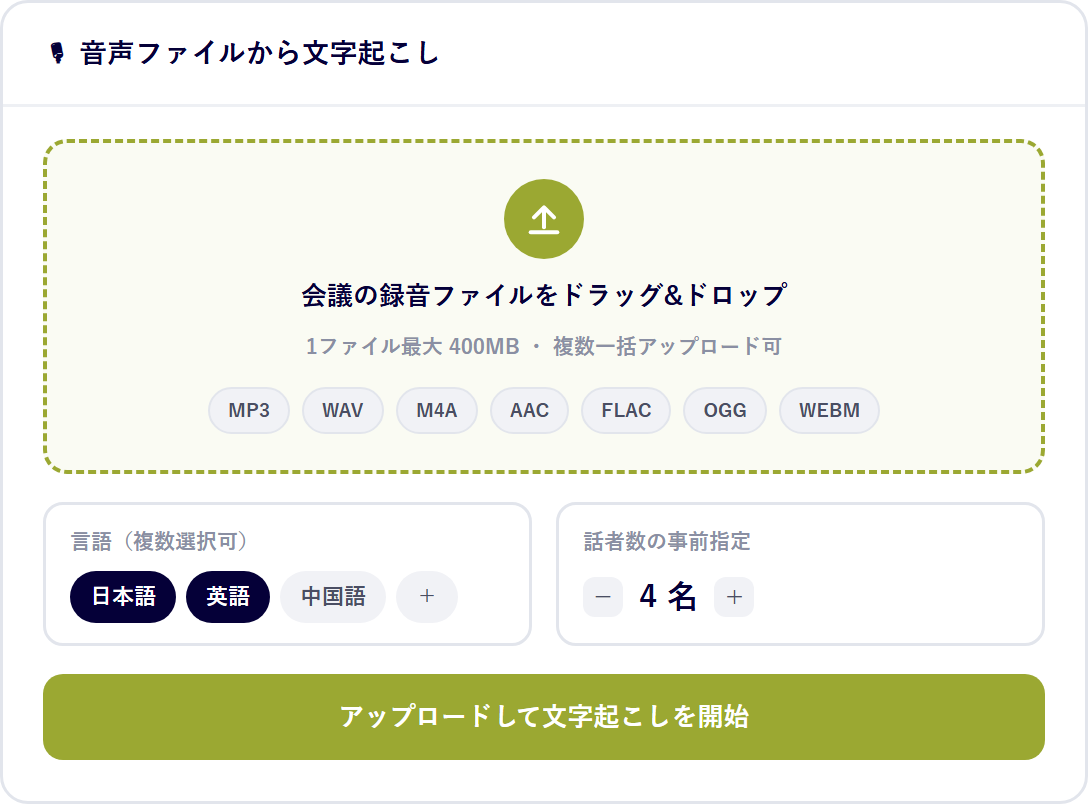
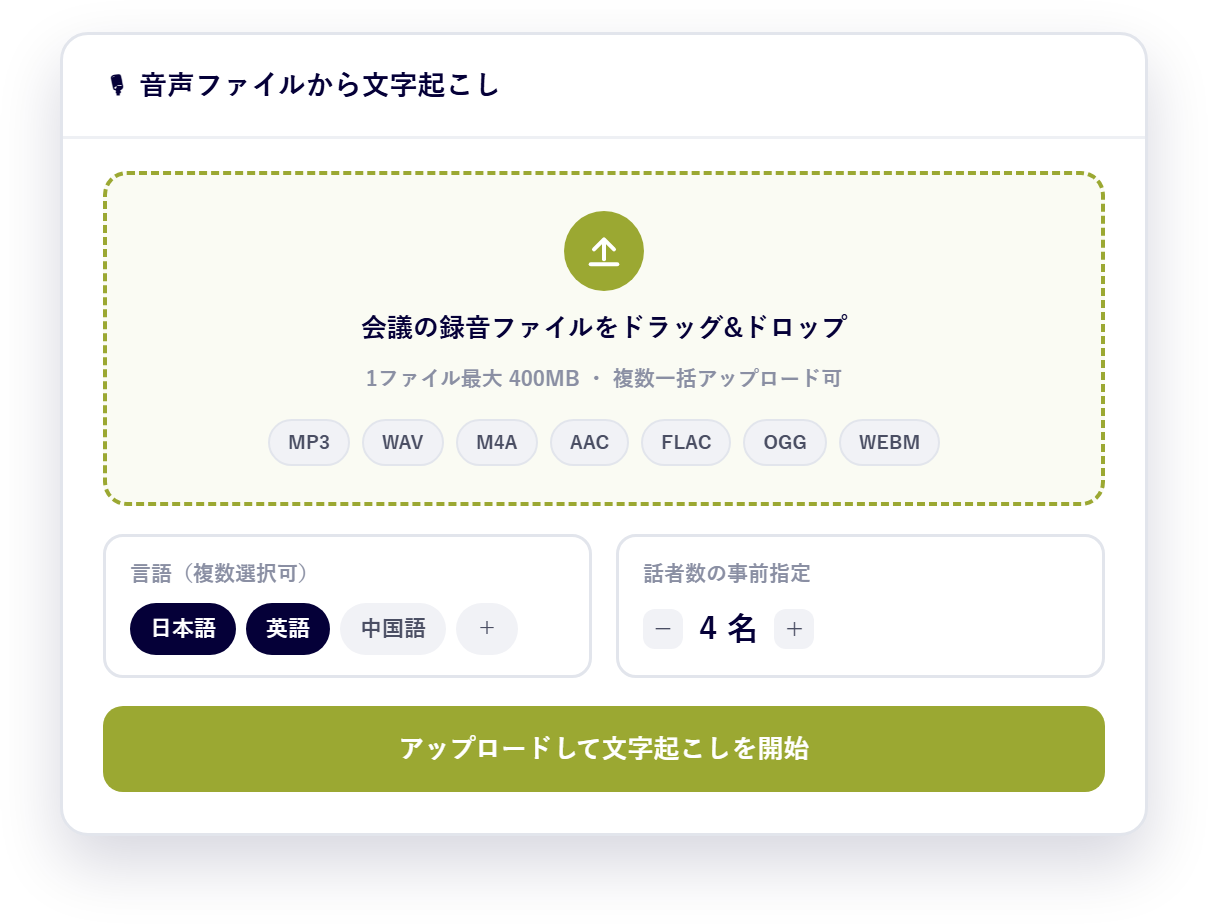
fix: hero CTA alignment and secondary button contrast; bake mockup shadow; section rhythm
- Secondary hero button was white-on-white (dark-hero override); now
  white bg with navy text/border, both buttons vertically centered
- Bake card shadow into transparent PNG, drop CSS filter whose layer
  edge showed as a visible seam
- Features section to white bg, re-alternate following sections
  (compare gray / flow white / use-cases gray / FAQ white)
- Remove LOCAL LLM/TRANSCRIPTION/TEMPLATE/MULTILINGUAL eyebrow tags
- Align new card heading sizes to 1.0625rem page standard

diff --git a/ai-minutes.html b/ai-minutes.html
@@ -1394,7 +1394,7 @@
             border: 1px solid var(--border);
         }
         .compare-card h3 {
-            font-size: 1.05rem;
+            font-size: 1.0625rem;
             font-weight: 800;
             margin-bottom: 1rem;
             padding-bottom: 0.75rem;
@@ -1516,7 +1516,18 @@
         .hero-feature .hero-points { justify-content: center; }
         .hero-feature .hero-points li { color: rgba(5, 0, 56, 0.75); }
         .hero-feature .hero-points li::before { background: #9BA832; }
-        .hero-feature .btn-secondary { background: white; }
+        .hero-feature .hero-cta { align-items: center; }
+        .hero-feature .hero-cta .btn {
+            display: inline-flex;
+            align-items: center;
+            justify-content: center;
+            line-height: 1.4;
+        }
+        .hero-feature .btn-secondary {
+            background: white;
+            color: var(--primary);
+            border-color: var(--primary);
+        }
         .hero-feature .btn-secondary:hover { background: var(--bg-cream); }
         .hero-deco {
             position: absolute;
@@ -1534,7 +1545,6 @@
         .hero-mockup-wrap { max-width: 880px; margin: 3.5rem auto 0; }
         .hero-mockup img {
             width: 100%; height: auto; display: block;
-            filter: drop-shadow(0 24px 40px rgba(5, 0, 56, 0.16));
         }
 
         .ps-row {
@@ -1555,8 +1565,7 @@
             color: var(--text-gray);
             margin-bottom: 0.5rem;
         }
-        .ps-pain-card h3 {
-            font-size: 1.02rem;
+        XX            font-size: 1.0625rem;
             font-weight: 800;
             line-height: 1.5;
             color: var(--text-dark);
@@ -1784,7 +1793,7 @@
             </ul>
             <div class="hero-mockup-wrap">
                 <div class="hero-mockup">
-                    <img src="images/hero-minutes-upload.png" alt="会議の録音ファイルをドラッグ&ドロップし、言語と話者数を選んで文字起こしを開始する画面イメージ" width="1088" height="804" loading="eager" decoding="async" fetchpriority="high">
+                    <img src="images/hero-minutes-upload.png" alt="会議の録音ファイルをドラッグ&ドロップし、言語と話者数を選んで文字起こしを開始する画面イメージ" width="1208" height="924" loading="eager" decoding="async" fetchpriority="high">
                 </div>
             </div>
         </div>
@@ -1886,7 +1895,7 @@
 </section>
 
 <!-- 4 Differentiators -->
-<section class="section section-gray" id="features">
+<section class="section" id="features">
     <div class="container">
         <span class="section-eyebrow">FEATURES</span>
         <h2 class="section-title">GBase On-Premises のAI議事録、4つの特長</h2>
@@ -1900,7 +1909,6 @@
                 <img src="images/feature-minutes-local-llm.jpg" alt="議事録の要約を自社環境のローカルLLMで実行し、会議データを外部クラウドに送信しない構成イメージ" width="1200" height="900" loading="lazy" decoding="async">
             </div>
             <div class="feature-content">
-                <span class="feature-label">LOCAL LLM</span>
                 <h3>要約はローカルLLM。<br>会議データを外部に出さない</h3>
                 <p>議事録の要約は、外部クラウドではなく自社・組織内環境で動作するLLMが実行します。個人情報や意思決定前の機微な情報を含む会議も、外部に送信せずにAIで処理できます。閉域環境でのAI活用については、<a href="https://onprem.gbase.ai/blog/on-premise-security/" class="inline-link">オンプレミスAIのセキュリティ解説</a>もご参照ください。</p>
                 <ul class="feature-list">
@@ -1917,7 +1925,6 @@
                 <img src="images/feature-minutes-upload.jpg" alt="会議の録音ファイルをドラッグ&ドロップし、言語と話者数を選んで文字起こしを開始する画面イメージ" width="1200" height="900" loading="lazy" decoding="async">
             </div>
             <div class="feature-content">
-                <span class="feature-label">TRANSCRIPTION</span>
                 <h3>音声をアップロードするだけで、<br>読めるテキストに</h3>
                 <p>会議の録音ファイルをドラッグ&amp;ドロップするだけで、タイムスタンプ・話者ラベル付きの文字起こしを自動生成。句読点の補正とフィラー（「えー」「あの」等）の除去は標準で適用され、そのまま読める文章として出力します。</p>
                 <ul class="feature-list">
@@ -1934,7 +1941,6 @@
                 <img src="images/feature-minutes-template.jpg" alt="話者ラベル付き文字起こしをテンプレートに沿って構造化し、決定事項・ToDoが整理された議事録ドラフトを生成するイメージ" width="1200" height="900" loading="lazy" decoding="async">
             </div>
             <div class="feature-content">
-                <span class="feature-label">TEMPLATE</span>
                 <h3>テンプレートで、「読める議事録」まで<br>自動で仕上げる</h3>
                 <p>文字起こし結果をもとに、標準テンプレート（会議概要・議題・決定事項・ToDo）に沿ってLLMが議事録ドラフトを自動生成。担当者は「ゼロから書く」のではなく「確認して仕上げる」だけです。</p>
                 <ul class="feature-list">
@@ -1952,7 +1958,6 @@
                 <img src="images/feature-minutes-multilang.jpg" alt="日本語・英語・中国語が混在する会議を話者ごとに分離し、訳文付きで記録する文字起こし画面イメージ" width="1200" height="900" loading="lazy" decoding="async">
             </div>
             <div class="feature-content">
-                <span class="feature-label">MULTILINGUAL</span>
                 <h3>多言語が混ざる会議も、<br>話者ごとに正確に記録</h3>
                 <p>日本語・英語・中国語など複数の言語を選択でき、1つの音声に複数言語が混在していても認識できます。参加人数を事前に指定することで、話者分離（誰が話したか）の精度が向上します。</p>
                 <ul class="feature-list">
@@ -1966,7 +1971,7 @@
 </section>
 
 <!-- Compare -->
-<section class="section" id="compare">
+<section class="section section-gray" id="compare">
     <div class="container">
         <span class="section-eyebrow">WHY LOCAL LLM</span>
         <h2 class="section-title">「AIは使いたい。でも、データは外に出せない」を両立</h2>
@@ -1998,7 +2003,7 @@
 </section>
 
 <!-- Process Flow -->
-<section class="section section-gray" id="flow">
+<section class="section" id="flow">
     <div class="container">
         <span class="section-eyebrow">HOW IT WORKS</span>
         <h2 class="section-title">5ステップで完成する議事録生成フロー</h2>
@@ -2036,7 +2041,7 @@
 </section>
 
 <!-- Use cases -->
-<section class="section" id="use-cases">
+<section class="section section-gray" id="use-cases">
     <div class="container">
         <span class="section-eyebrow">USE CASES</span>
         <h2 class="section-title">あらゆる会議に適用できます</h2>
@@ -2121,7 +2126,7 @@
 </section>
 
 <!-- FAQ -->
-<section class="section section-gray" id="faq">
+<section class="section" id="faq">
     <div class="container">
         <span class="section-eyebrow">FAQ</span>
         <h2 class="section-title">AI議事録によくあるご質問</h2>
